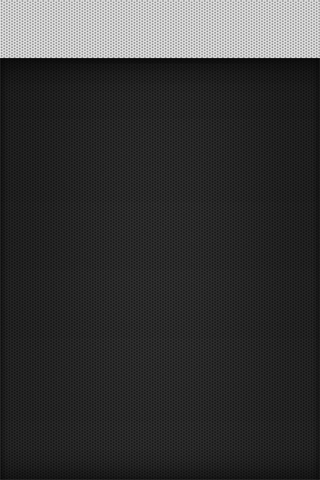
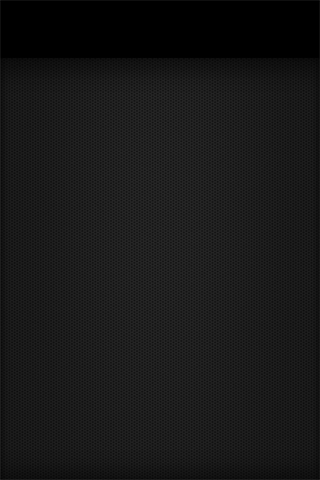
update background graphic. add navbar to RemoteController view

Changed region(s): [[0.0, 0.0, 1.0, 0.125]]

diff --git a/NeTV/RemoteController.m b/NeTV/RemoteController.m
@@ -54,6 +54,12 @@
 - (void)viewDidLoad
 {
     [super viewDidLoad];
+    
+    //Clear background color
+    self.view.backgroundColor = [UIColor clearColor];
+    
+    //Hide the default navbar
+    self.navigationController.navigationBarHidden = YES;
 }
 
 - (void)viewDidUnload

diff --git a/NeTV/NeTVViewController.m b/NeTV/NeTVViewController.m
@@ -61,7 +61,7 @@
     //Hide the default navbar
     self.navigationController.navigationBarHidden = YES;
     
-    //Hide the custom navbar
+    //Hide the custom navbar back button
     btnNavbarBack.alpha = 0;
         
     //Setup SearchResultTableView
